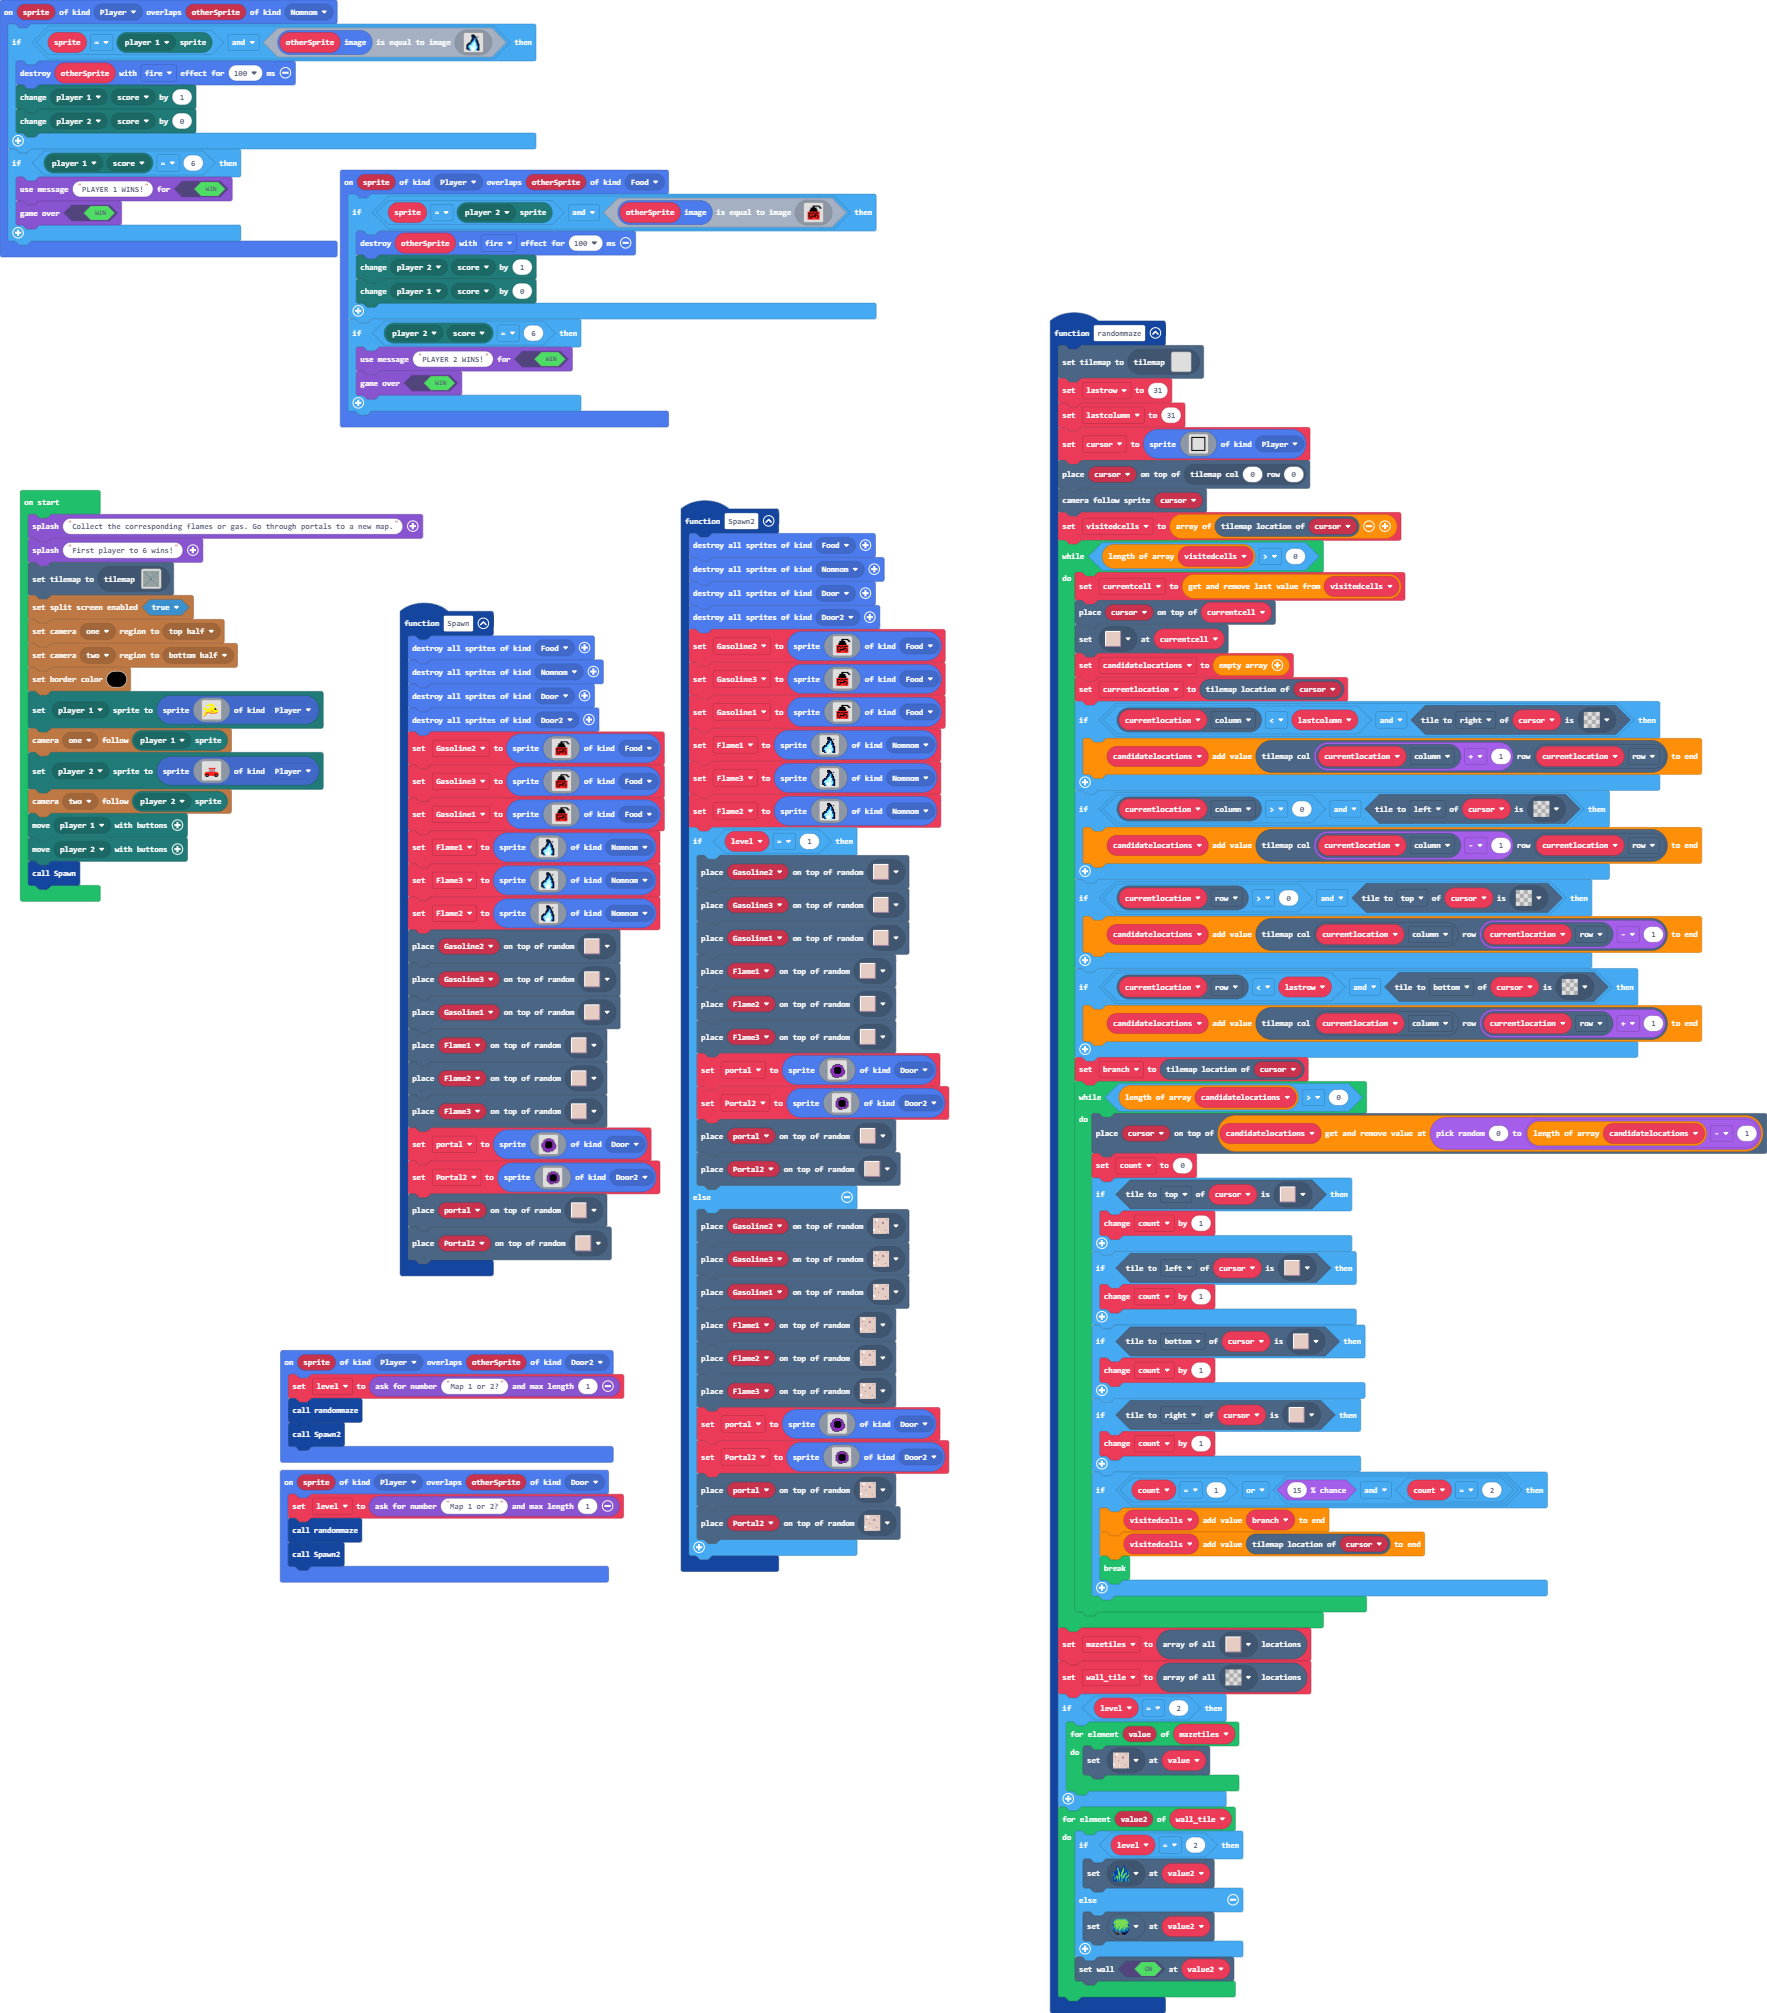
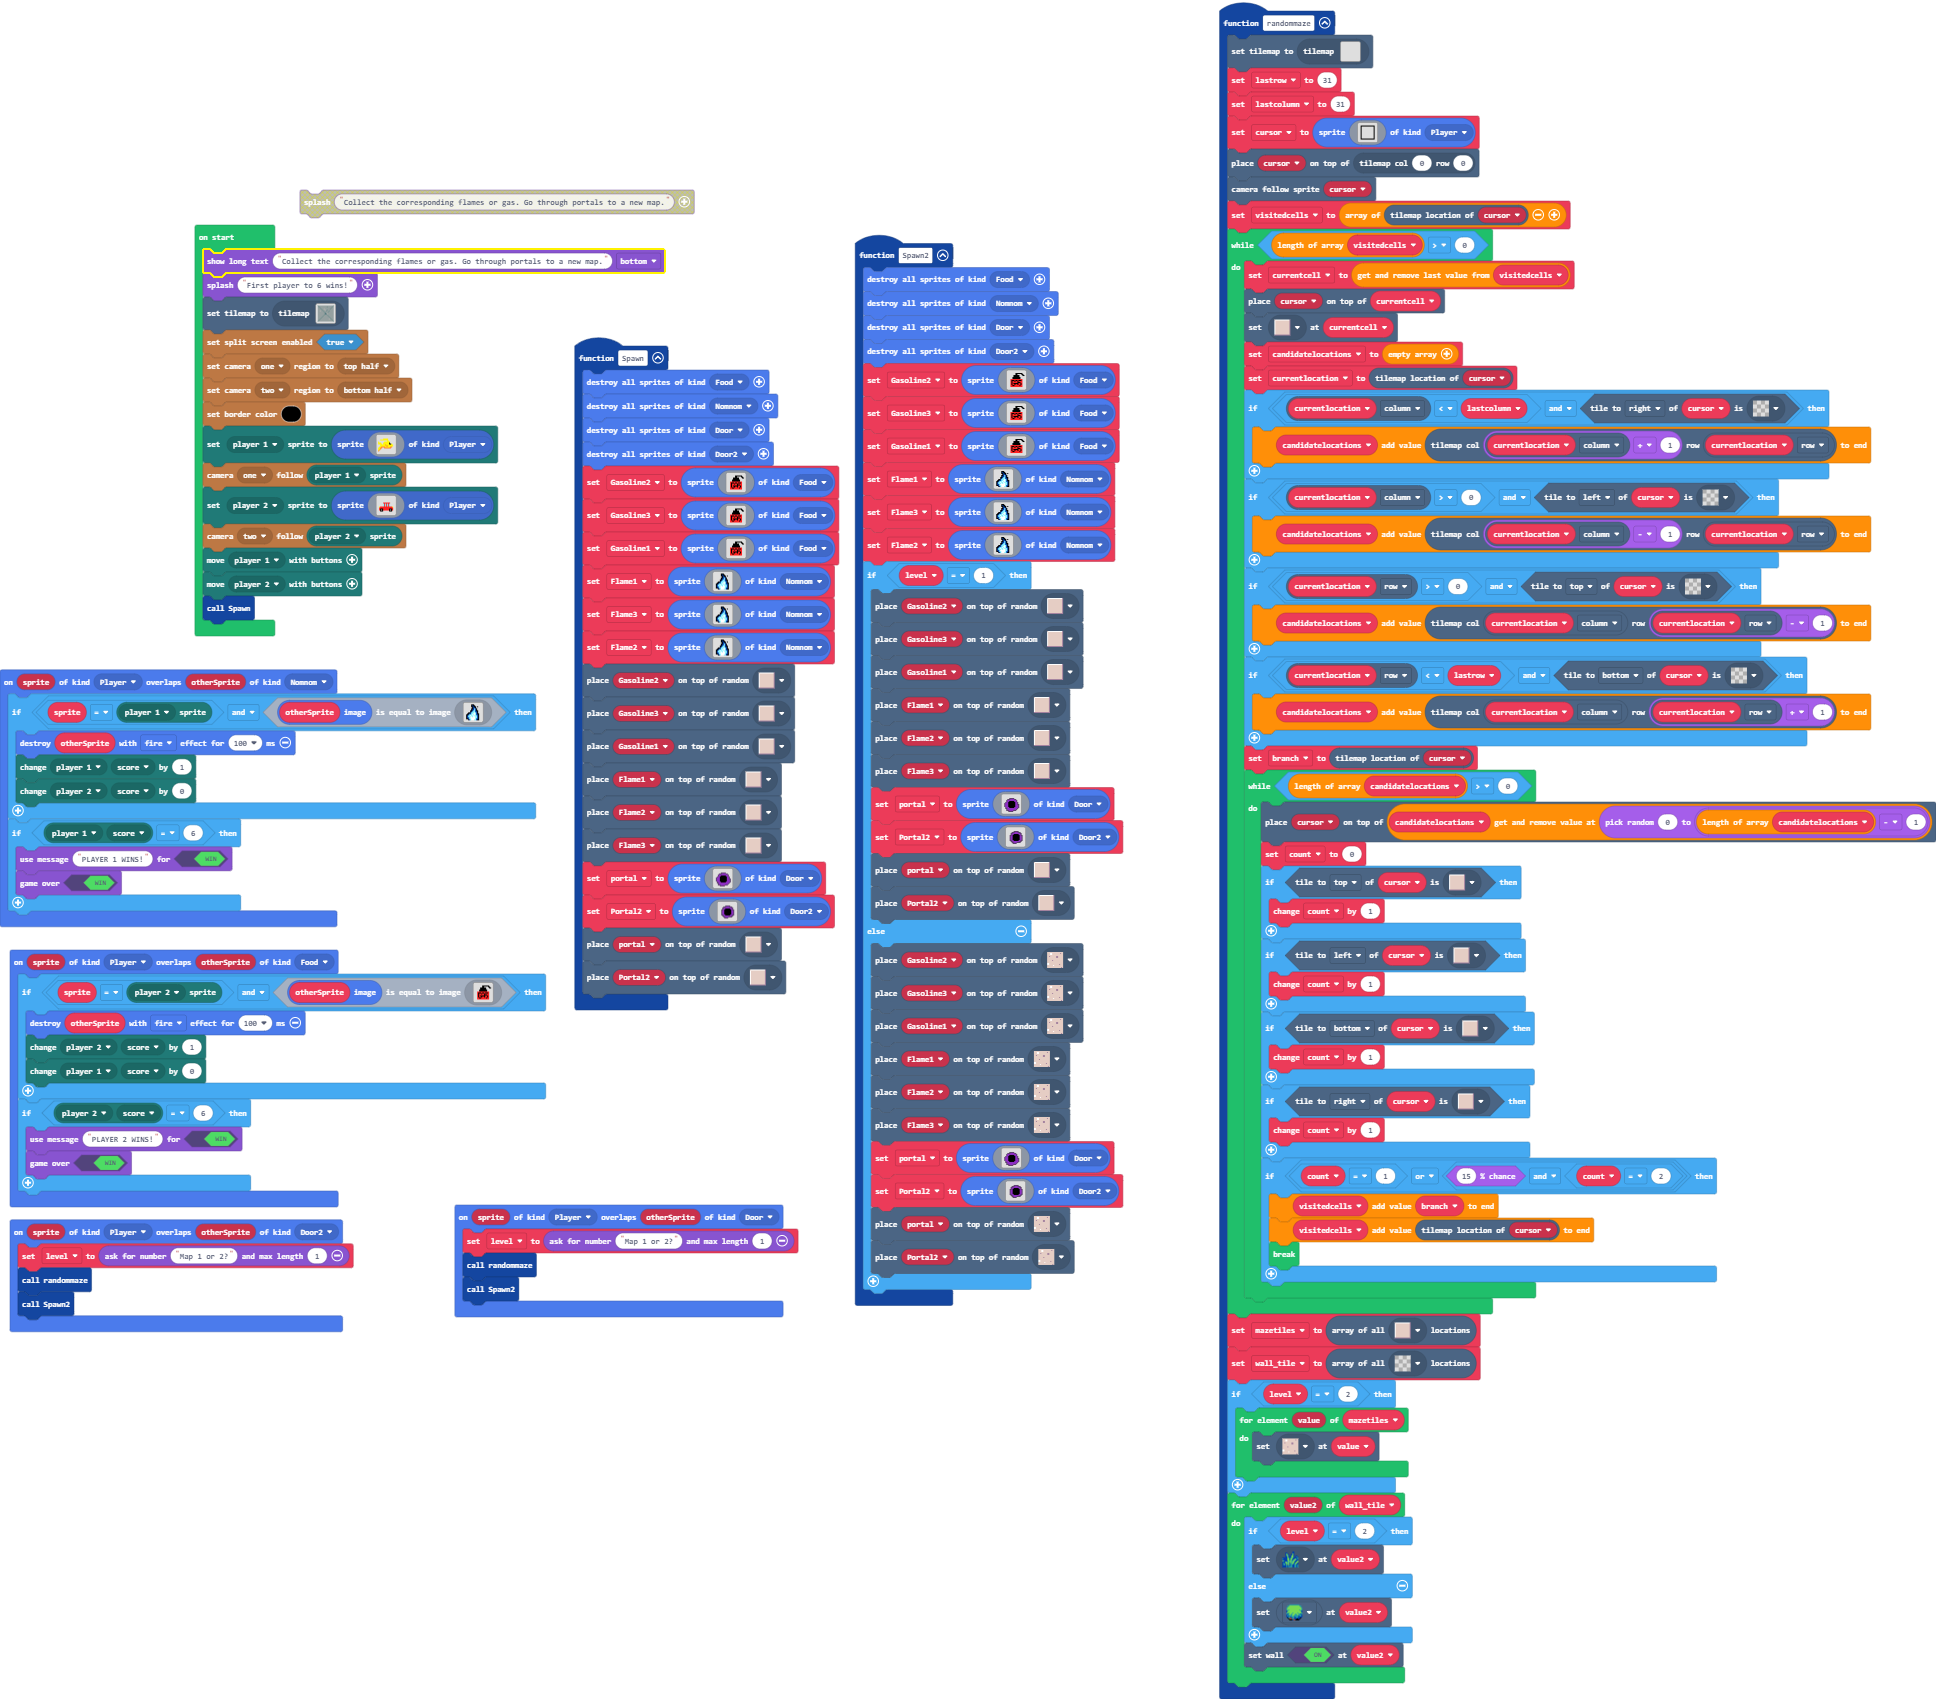
Text fix

diff --git a/main.ts b/main.ts
@@ -415,7 +415,7 @@ let visitedcells: tiles.Location[] = []
 let cursor: Sprite = null
 let lastcolumn = 0
 let lastrow = 0
-game.splash("Collect the corresponding flames or gas. Go through portals to a new map.")
+game.showLongText("Collect the corresponding flames or gas. Go through portals to a new map.", DialogLayout.Bottom)
 game.splash("First player to 6 wins!")
 tiles.setCurrentTilemap(tilemap`level3`)
 splitScreen.setSplitScreenEnabled(true)
